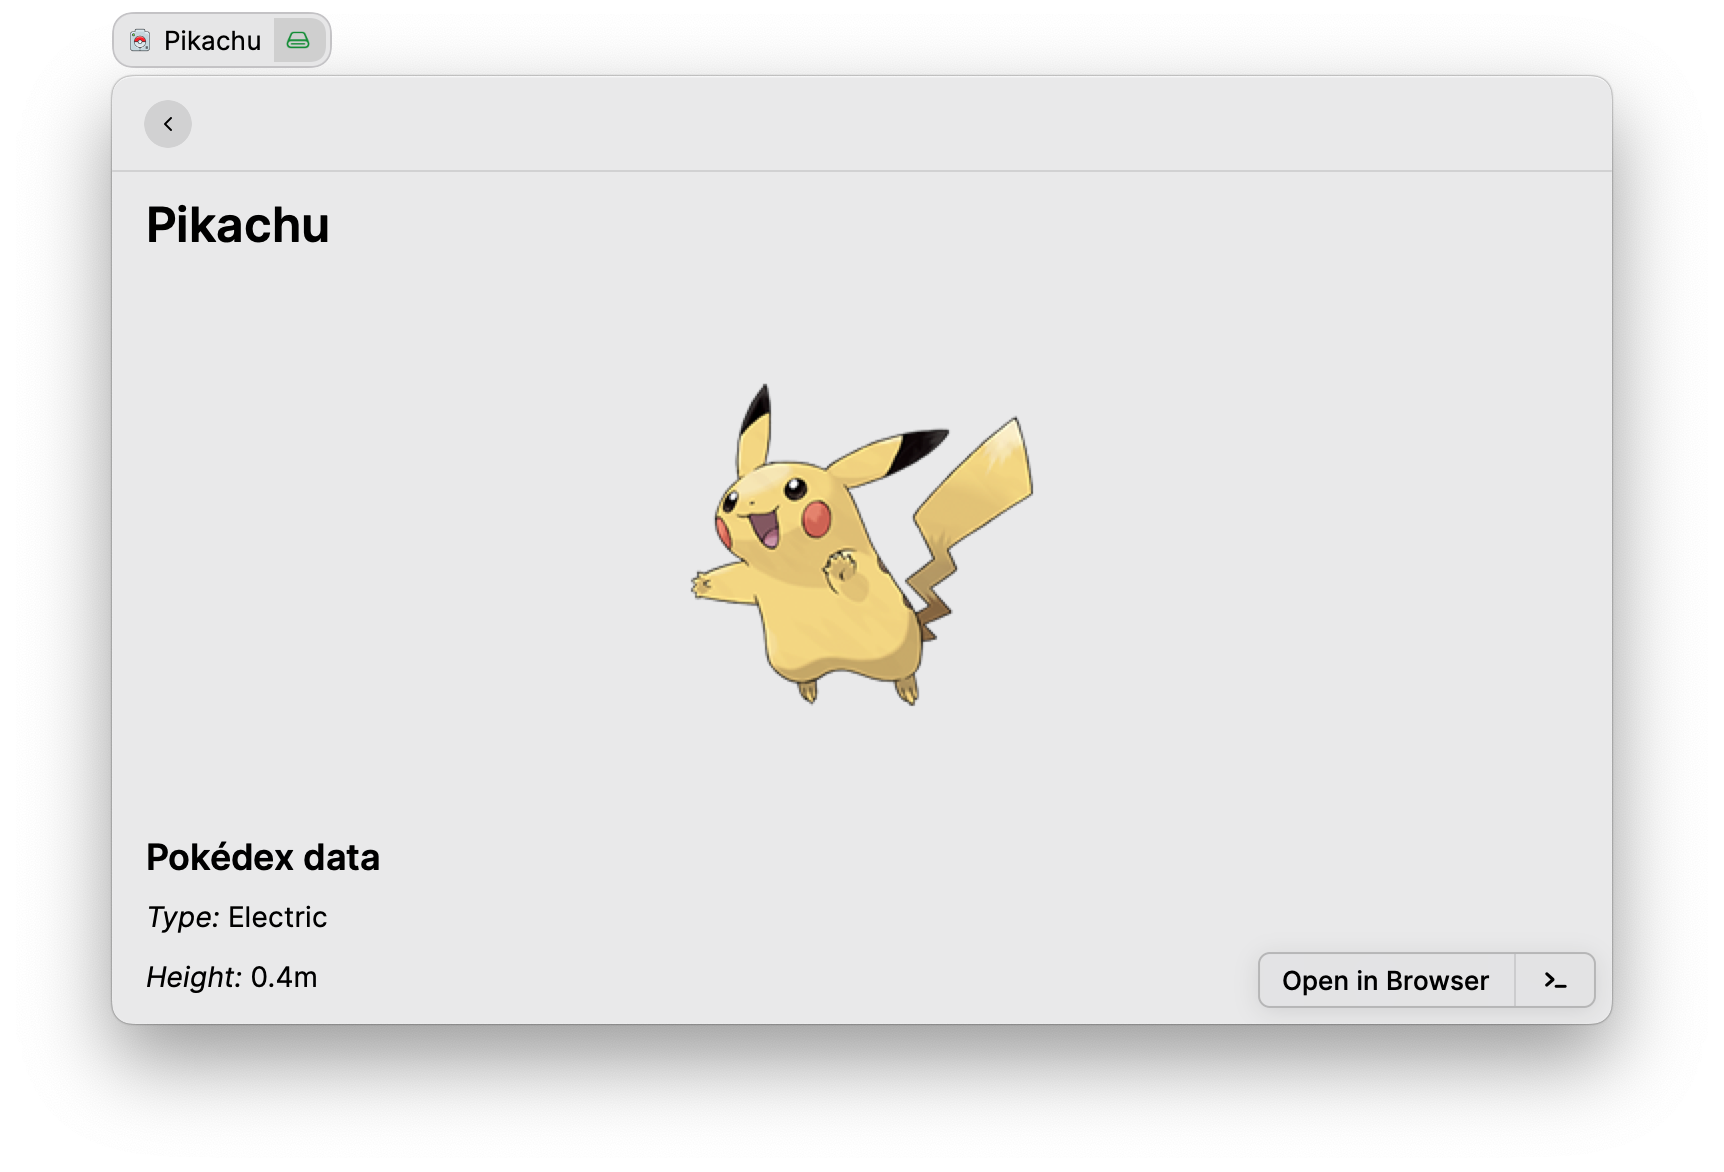
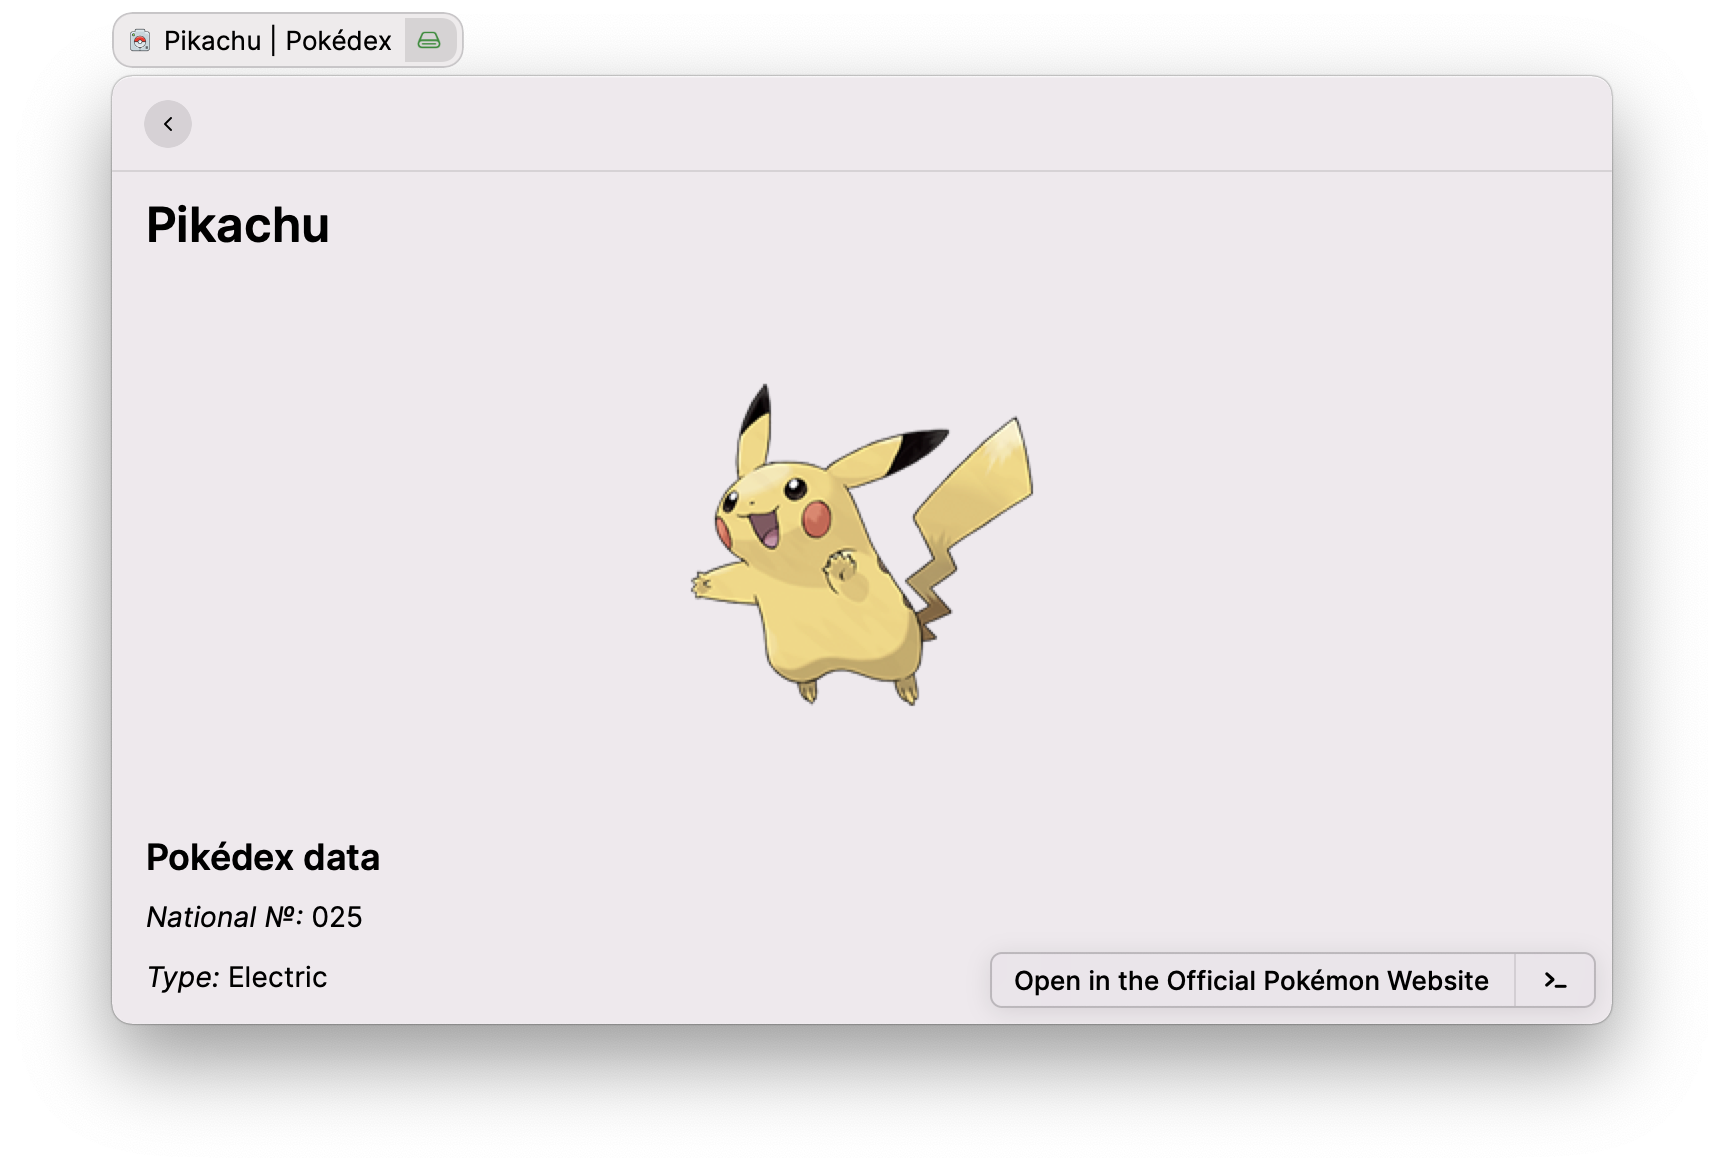
feat: add Pokémon forms

diff --git a/src/components/detail.tsx b/src/components/detail.tsx
@@ -46,6 +46,13 @@ export default function PokemonDetail(props: { id?: number }) {
       })
       .join(", ");
 
+  const formImg = (id: number, formId: number) => {
+    const name = formId
+      ? `${id.toString().padStart(3, "0")}_f${formId + 1}`
+      : id.toString().padStart(3, "0");
+    return `https://assets.pokemon.com/assets/cms2/img/pokedex/detail/${name}.png`;
+  };
+
   const dataObject = (
     pokemon: PokemonV2Pokemon | undefined
   ): json2md.DataObject => {
@@ -112,6 +119,32 @@ export default function PokemonDetail(props: { id?: number }) {
         )}**`,
       },
       {
+        h2:
+          pokemon_v2_pokemonspecy.pokemon_v2_pokemons.length > 1 ? "Forms" : "",
+      },
+      ...(pokemon_v2_pokemonspecy.pokemon_v2_pokemons.length > 1
+        ? pokemon_v2_pokemonspecy.pokemon_v2_pokemons.map((p, idx) => {
+            return [
+              {
+                h3:
+                  p.pokemon_v2_pokemonforms[0].pokemon_v2_pokemonformnames[0]
+                    ?.name || pokemon_v2_pokemonspeciesnames[0].name,
+              },
+              {
+                img: [
+                  {
+                    title:
+                      p.pokemon_v2_pokemonforms[0]
+                        .pokemon_v2_pokemonformnames[0]?.name ||
+                      pokemon_v2_pokemonspeciesnames[0].name,
+                    source: formImg(pokemon.id, idx),
+                  },
+                ],
+              },
+            ];
+          })
+        : []),
+      {
         h2: "Evolutions",
       },
       {
@@ -121,16 +154,19 @@ export default function PokemonDetail(props: { id?: number }) {
             : "",
       },
       {
-        img: pokemon_v2_evolutionchain.pokemon_v2_pokemonspecies.map(
-          (specy) => {
-            return {
-              title: specy.pokemon_v2_pokemonspeciesnames[0].name,
-              source: `https://assets.pokemon.com/assets/cms2/img/pokedex/detail/${specy.id
-                .toString()
-                .padStart(3, "0")}.png`,
-            };
-          }
-        ),
+        img:
+          pokemon_v2_evolutionchain.pokemon_v2_pokemonspecies.length < 2
+            ? []
+            : pokemon_v2_evolutionchain.pokemon_v2_pokemonspecies.map(
+                (specy) => {
+                  return {
+                    title: specy.pokemon_v2_pokemonspeciesnames[0].name,
+                    source: `https://assets.pokemon.com/assets/cms2/img/pokedex/detail/${specy.id
+                      .toString()
+                      .padStart(3, "0")}.png`,
+                  };
+                }
+              ),
       },
       {
         h2: "Pokédex entries",

diff --git a/src/types/index.ts b/src/types/index.ts
@@ -48,6 +48,7 @@ export interface PokemonV2Pokemonspecy {
   name: string;
   pokemon_v2_evolutionchain: PokemonV2Evolutionchain;
   pokemon_v2_pokemonspeciesnames: PokemonV2Pokemonspeciesname[];
+  pokemon_v2_pokemons: PokemonV2PokemonspecyPokemonV2Pokemon[];
   pokemon_v2_pokemonspeciesflavortexts: PokemonV2Pokemonspeciesflavortext[];
 }
 
@@ -64,6 +65,22 @@ export interface PokemonV2PokemonspecyElement {
 export interface PokemonV2Pokemonspeciesname {
   genus: string;
   name: string;
+}
+
+export interface PokemonV2PokemonspecyPokemonV2Pokemon {
+  name: string;
+  pokemon_v2_pokemonforms: PokemonV2Pokemonform[];
+}
+
+export interface PokemonV2Pokemonform {
+  form_name: string;
+  pokemon_v2_pokemonformnames: PokemonV2Pokemonformname[];
+}
+
+export interface PokemonV2Pokemonformname {
+  name: string;
+  pokemon_name: string;
+  pokemon_form_id: number;
 }
 
 export interface PokemonV2Pokemonspeciesflavortext {

diff --git a/src/api/index.ts b/src/api/index.ts
@@ -63,6 +63,17 @@ export const getPokemon = async (id: number): Promise<PokemonV2Pokemon[]> => {
             genus
             name
           }
+          pokemon_v2_pokemons(order_by: {order: asc}) {
+            name
+            pokemon_v2_pokemonforms {
+              form_name
+              pokemon_v2_pokemonformnames(where: {language_id: {_eq: $language_id}}) {
+                name
+                pokemon_name
+                pokemon_form_id
+              }
+            }
+          }
           pokemon_v2_pokemonspeciesflavortexts(where: {language_id: {_eq: $language_id}}) {
             flavor_text
             pokemon_v2_version {

diff --git a/README.md b/README.md
@@ -11,9 +11,17 @@ This extension is made by [Anh Thang Bui](https://github.com/anhthang) and uses 
 
 ## Features
 
-- [x] 🔍 Search for a Pokémon by name or using its National Pokédex number.
-- [x] Surprise Me!
-- [x] Pokémon details by prefered language. Supported: English (default), French, German, Italian, Japanese, Korean, Spanish.
+- [x] 🔍 Pokédex
+  - Search for a Pokémon by name or using its National Pokédex number.
+    - Pokédex data
+    - Base stats
+    - Forms
+    - Evolutions
+    - Pokédex entries
+  - Surprise Me!
+  - Open in the Official Pokémon Website, Open in Bulbapedia.
+- [x] ⚙ Preference
+  - Pokémon details by prefered language. Supported: English (default), French, German, Italian, Japanese, Korean, Spanish.
 
 ## TODO
 
